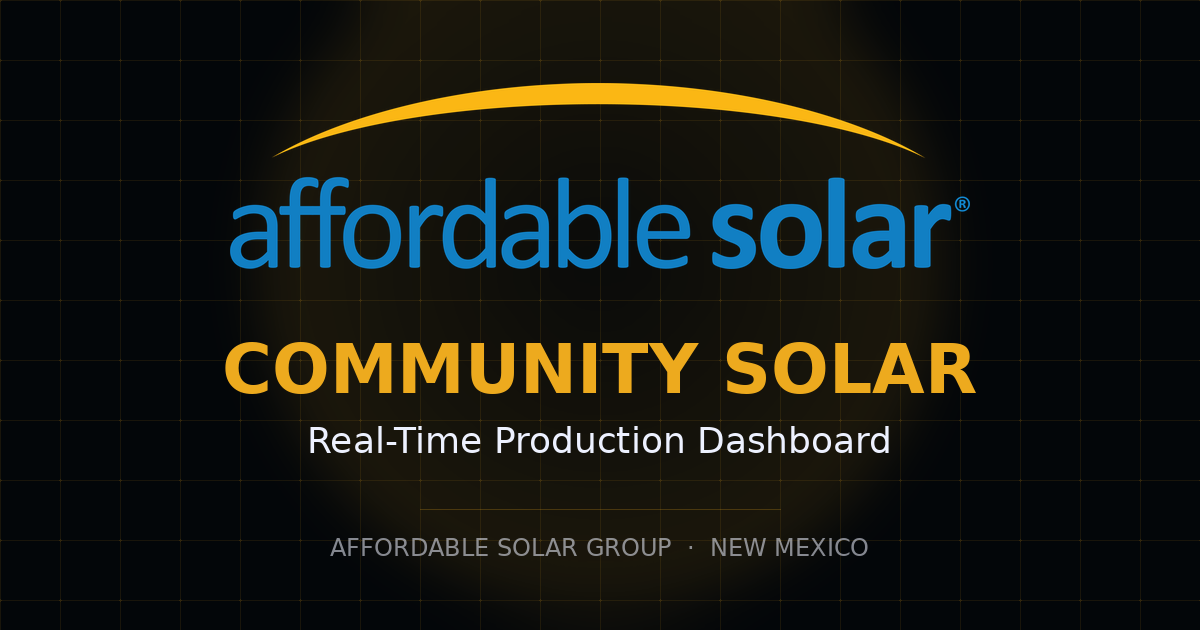
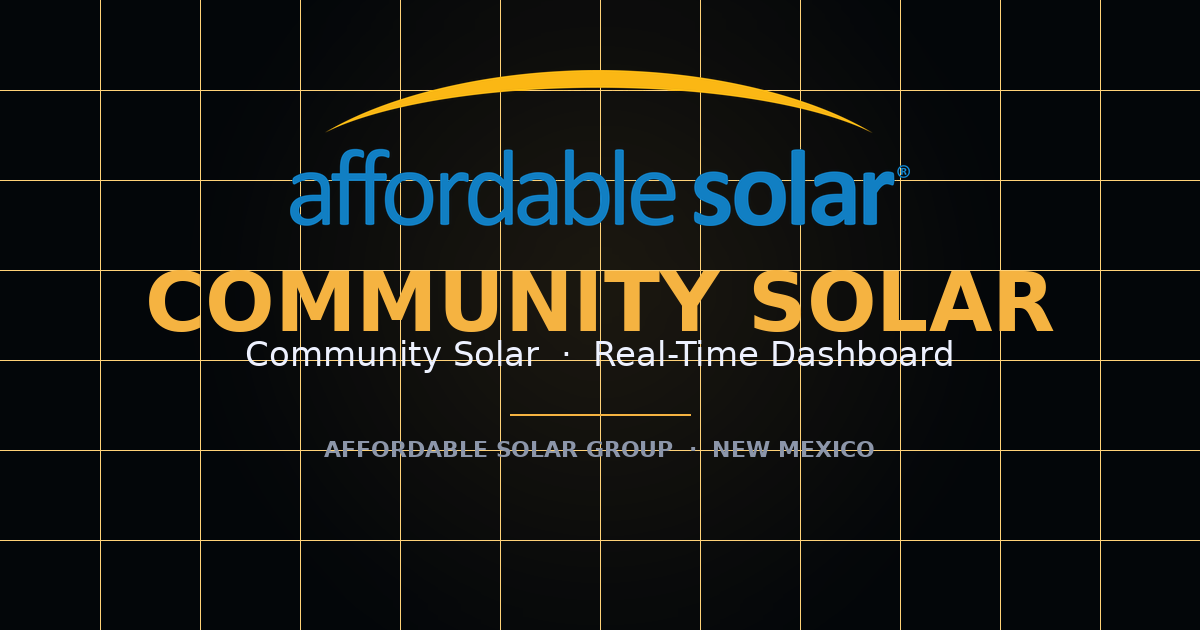
Per-site OG preview cards with site name in gold

diff --git a/server.js b/server.js
@@ -78,6 +78,29 @@ function escHtml(s) {
     .replace(/'/g, '&#39;');
 }
 
+// Slugify a site name the same way scripts/generate-og-images.py does so the
+// server picks the matching og-<slug>.png baked into the repo. Example:
+//   "Cuidando Los Niños Community Solar" -> "cuidando-los-ninos-community-solar"
+function slugify(s) {
+  return String(s)
+    .normalize('NFD').replace(/[\u0300-\u036f]/g, '')  // strip accents
+    .toLowerCase()
+    .replace(/[^a-z0-9]+/g, '-')
+    .replace(/^-|-$/g, '');
+}
+
+// Pick the per-site OG image if one exists; otherwise fall back to the generic
+// og.png. Resolved once at startup — all sites with a dedicated card are
+// checked in scripts/generate-og-images.py.
+const OG_IMAGE_FILE = (() => {
+  const slug = slugify(SITE_NAME);
+  const candidate = `og-${slug}.png`;
+  if (slug && fs.existsSync(path.join(PUBLIC, candidate))) {
+    return candidate;
+  }
+  return 'og.png';
+})();
+
 // Render the dashboard HTML with site config + per-site <title> and Open
 // Graph / Twitter Card meta tags injected. Unfurlers (iMessage, Slack,
 // Twitter, etc.) fetch this HTML server-side and don't run JS, so everything
@@ -100,7 +123,7 @@ function renderDashboard(req) {
   const description =
     `Live solar production for ${SITE_NAME} — current kW output, today's` +
     ` energy, 7-day history, and weather. ${SITE_SUBTITLE}`;
-  const ogImage = `${baseUrl}/og.png`;
+  const ogImage = `${baseUrl}/${OG_IMAGE_FILE}`;
 
   const t = escHtml(title);
   const d = escHtml(description);
@@ -545,6 +568,7 @@ app.listen(PORT, () => {
   console.log(`Scraper interval: ${SCRAPE_INTERVAL / 60000} min`);
   console.log(`Credentials: ${USERNAME ? 'set' : 'MISSING'}`);
   console.log(`Anthropic key: ${ANTHROPIC_API_KEY ? 'set' : 'not set (facts will use fallback)'}`);
+  console.log(`OG preview image: ${OG_IMAGE_FILE}${OG_IMAGE_FILE === 'og.png' ? ' (generic fallback)' : ''}`);
 
   scrape();
   setInterval(scrape, SCRAPE_INTERVAL);

diff --git a/scripts/generate-og-images.py b/scripts/generate-og-images.py
@@ -1,0 +1,209 @@
+#!/usr/bin/env python3
+"""
+Generate 1200x630 Open Graph preview cards for each community solar site.
+
+One card per site with the site's short display name in gold, plus a generic
+"og.png" used as a fallback for any site without a dedicated image.
+
+Output files are written to ../public/og-{slug}.png and ../public/og.png, where
+{slug} is derived from the site's SITE_NAME env var using the same slugify
+rule that server.js applies at runtime:
+  - NFD-normalize + strip combining marks (Niños -> Ninos)
+  - lowercase
+  - non-alphanumerics -> single dash
+  - trim leading/trailing dashes
+
+Run from anywhere:
+    python3 scripts/generate-og-images.py
+"""
+
+import os
+import re
+import unicodedata
+from pathlib import Path
+from PIL import Image, ImageDraw, ImageFont, ImageFilter
+
+ROOT   = Path(__file__).resolve().parent.parent
+PUBLIC = ROOT / "public"
+LOGO   = PUBLIC / "logo.png"
+
+# Canvas
+W, H = 1200, 630
+BG       = (3, 6, 9)          # matches dashboard --bg
+GOLD     = (245, 179, 65)     # matches dashboard --gold
+WHITE    = (237, 241, 255)    # matches dashboard --ink
+MUTED    = (140, 150, 170)
+GRID     = (255, 210, 120, 18)
+
+# Fonts — DejaVu is present on most Linux distros (used by Pillow's default
+# install path). Fall back to PIL default if missing.
+FONT_DIRS = [
+    "/usr/share/fonts/truetype/dejavu",
+    "/Library/Fonts",
+    "/System/Library/Fonts",
+]
+
+def _find_font(*candidates):
+    for d in FONT_DIRS:
+        for name in candidates:
+            p = Path(d) / name
+            if p.exists():
+                return str(p)
+    return None
+
+FONT_BOLD    = _find_font("DejaVuSans-Bold.ttf", "Arial Bold.ttf")
+FONT_REGULAR = _find_font("DejaVuSans.ttf", "Arial.ttf")
+
+# Sites — tuples of (SITE_NAME env var value, display name for the card).
+# SITE_NAME must match the Railway env var exactly so the slug matches at
+# runtime. Display name is what gets painted in gold on the card.
+SITES = [
+    ("Cuidando Los Niños Community Solar",   "CUIDANDO LOS NIÑOS"),
+    ("Central New Mexico Community Solar",   "CENTRAL NEW MEXICO"),
+    ("Locker 505 Community Solar",           "LOCKER 505"),
+    ("Global Give a Book Community Solar",   "GLOBAL GIVE A BOOK"),
+    ("Wings for Life Community Solar",       "WINGS FOR LIFE"),
+    ("WESST Community Solar",                "WESST"),
+]
+
+
+def slugify(name: str) -> str:
+    """Mirror of the slugify function in server.js."""
+    # Strip combining marks (Niños -> Ninos)
+    norm = unicodedata.normalize("NFD", name)
+    norm = "".join(c for c in norm if not unicodedata.combining(c))
+    s = norm.lower()
+    s = re.sub(r"[^a-z0-9]+", "-", s)
+    s = s.strip("-")
+    return s
+
+
+def load_font(path, size):
+    if path:
+        return ImageFont.truetype(path, size)
+    return ImageFont.load_default()
+
+
+def draw_background(img: Image.Image):
+    """Matte-black panel with gold grid lines + radial glow behind the logo."""
+    draw = ImageDraw.Draw(img, "RGBA")
+
+    # Soft gold radial glow centered roughly where the logo + headline sit.
+    glow = Image.new("RGBA", (W, H), (0, 0, 0, 0))
+    gdraw = ImageDraw.Draw(glow)
+    cx, cy = W // 2, H // 2 - 30
+    for r in range(420, 40, -40):
+        alpha = max(0, min(255, int(28 * (1 - r / 420))))
+        gdraw.ellipse(
+            [cx - r, cy - r, cx + r, cy + r],
+            fill=(255, 190, 80, alpha),
+        )
+    glow = glow.filter(ImageFilter.GaussianBlur(40))
+    img.alpha_composite(glow)
+
+    # Grid — evenly spaced vertical + horizontal lines.
+    cols, rows = 12, 7
+    for i in range(1, cols):
+        x = int(W * i / cols)
+        draw.line([(x, 0), (x, H)], fill=GRID, width=1)
+    for i in range(1, rows):
+        y = int(H * i / rows)
+        draw.line([(0, y), (W, y)], fill=GRID, width=1)
+
+
+def paste_logo(img: Image.Image) -> int:
+    """Paste the affordable solar logo centered horizontally; return y-bottom."""
+    if not LOGO.exists():
+        return 220
+    logo = Image.open(LOGO).convert("RGBA")
+    # Target width ~620px; preserve aspect ratio.
+    target_w = 620
+    ratio = target_w / logo.width
+    target_h = int(logo.height * ratio)
+    logo = logo.resize((target_w, target_h), Image.LANCZOS)
+    x = (W - target_w) // 2
+    y = 70
+    img.alpha_composite(logo, (x, y))
+    return y + target_h
+
+
+def fit_text(text: str, font_path: str, max_width: int, max_size: int, min_size: int = 36):
+    """Shrink `text` to fit within `max_width` pixels; return (font, width)."""
+    size = max_size
+    while size >= min_size:
+        font = load_font(font_path, size)
+        bbox = font.getbbox(text)
+        w = bbox[2] - bbox[0]
+        if w <= max_width:
+            return font, w, size
+        size -= 2
+    font = load_font(font_path, min_size)
+    bbox = font.getbbox(text)
+    return font, bbox[2] - bbox[0], min_size
+
+
+def draw_card(display_name: str, out_path: Path):
+    img = Image.new("RGBA", (W, H), BG + (255,))
+    draw_background(img)
+    logo_bottom = paste_logo(img)
+
+    draw = ImageDraw.Draw(img)
+
+    # Big gold headline — auto-size to fit so "GLOBAL GIVE A BOOK" and "WESST"
+    # both look balanced.
+    headline = display_name.upper()
+    head_font, head_w, _ = fit_text(headline, FONT_BOLD, max_width=980, max_size=82, min_size=44)
+    head_y = logo_bottom + 28
+    draw.text(((W - head_w) // 2, head_y), headline, fill=GOLD, font=head_font)
+    head_h = head_font.getbbox(headline)[3] - head_font.getbbox(headline)[1]
+
+    # Subtitle — "Community Solar · Real-Time Dashboard"
+    sub_font = load_font(FONT_REGULAR, 34)
+    subtitle = "Community Solar  ·  Real-Time Dashboard"
+    sub_w = sub_font.getbbox(subtitle)[2] - sub_font.getbbox(subtitle)[0]
+    sub_y = head_y + head_h + 18
+    draw.text(((W - sub_w) // 2, sub_y), subtitle, fill=WHITE, font=sub_font)
+
+    # Divider
+    divider_y = sub_y + 80
+    draw.line(
+        [(W // 2 - 90, divider_y), (W // 2 + 90, divider_y)],
+        fill=GOLD + (140,) if False else GOLD,
+        width=2,
+    )
+
+    # Footer
+    foot_font = load_font(FONT_BOLD, 22)
+    footer = "AFFORDABLE SOLAR GROUP  ·  NEW MEXICO"
+    foot_w = foot_font.getbbox(footer)[2] - foot_font.getbbox(footer)[0]
+    draw.text(
+        ((W - foot_w) // 2, divider_y + 22),
+        footer,
+        fill=MUTED,
+        font=foot_font,
+    )
+
+    img.convert("RGB").save(out_path, "PNG", optimize=True)
+    print(f"  -> {out_path.relative_to(ROOT)}")
+
+
+def main():
+    if not FONT_BOLD:
+        print("WARN: DejaVuSans-Bold not found; falling back to PIL default font")
+
+    # Generic fallback — used for any site without a specific image, or when
+    # SITE_NAME is unset. Same layout, "COMMUNITY SOLAR" as the headline.
+    print("Generating cards:")
+    draw_card("Community Solar", PUBLIC / "og.png")
+
+    for site_name, display in SITES:
+        slug = slugify(site_name)
+        out = PUBLIC / f"og-{slug}.png"
+        draw_card(display, out)
+        print(f"     ({site_name!r} -> slug {slug!r})")
+
+    print("Done.")
+
+
+if __name__ == "__main__":
+    main()
